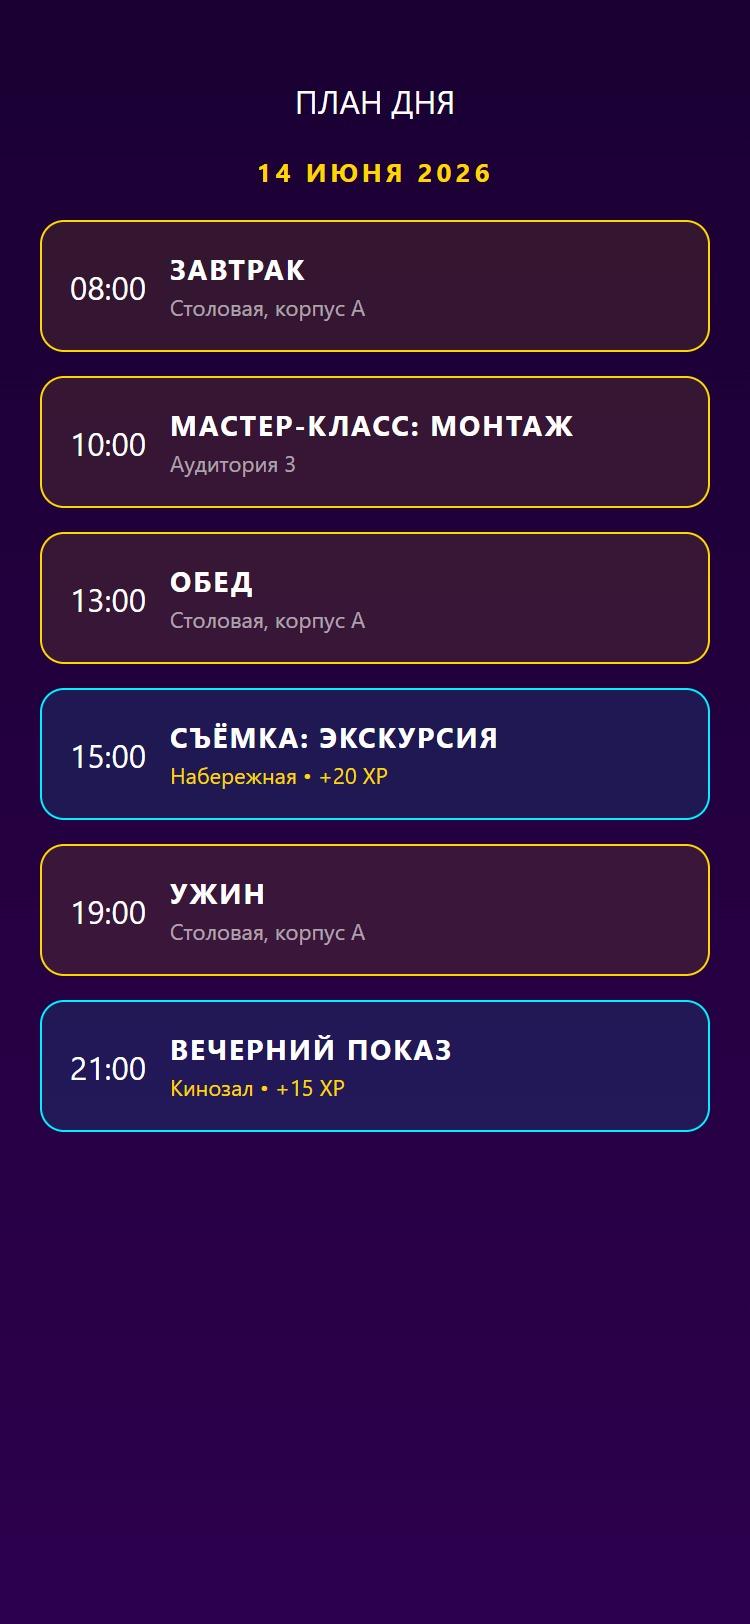
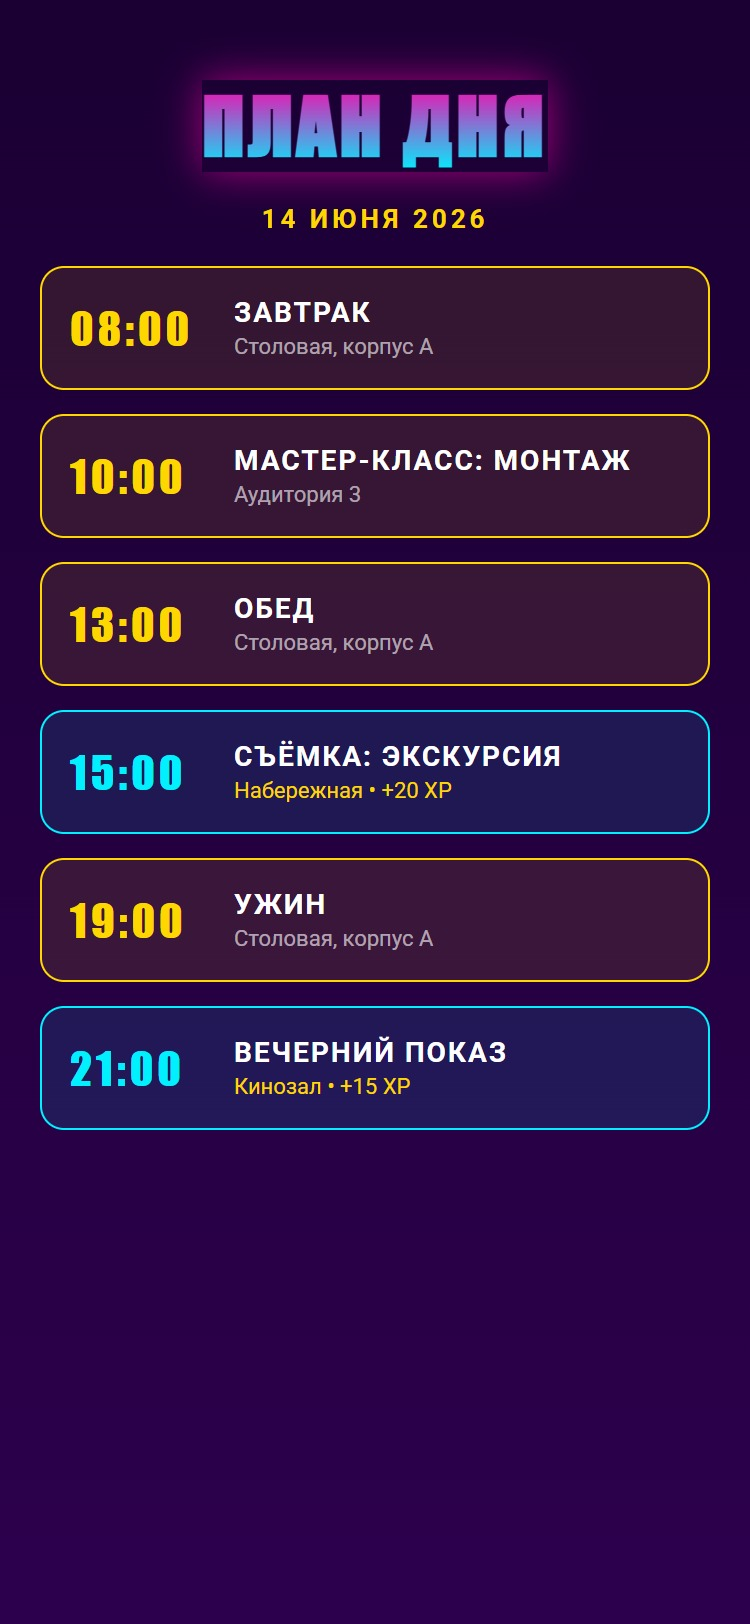
fix: exporter — escape font-family quotes, add Oswald fallback for Pricedown
Bug: 'font-family:"Roboto"' in style attribute broke HTML parsing due to
nested double quotes. Caused text elements to lose all styles and stay invisible
against light/dark backgrounds (looked like blank gray placeholders).

Fixes:
1. Use single quotes for font-family names: 'Roboto' instead of "Roboto"
2. Load Roboto + Oswald fonts via Google Fonts for consistent cross-machine rendering
3. Fallback stack for Pricedown: Impact / Oswald / Arial Black + condensed stretch + letter-spacing
4. await document.fonts.ready before screenshot to avoid FOUT

File sizes grew ~3x (60KB → 200KB) — means text is actually rendered now.

Changed region(s): [[0.0307, 0.0308, 0.9507, 0.7081]]

diff --git a/export-screens.js b/export-screens.js
@@ -145,7 +145,7 @@ function renderNode(node, isRoot = false, parentLayout = 'none') {
 
   if (type === 'text') {
     const ts = {};
-    if (node.fontFamily) ts['font-family'] = `"${node.fontFamily}", Roboto, sans-serif`;
+    if (node.fontFamily) ts['font-family'] = `'${node.fontFamily}', Roboto, sans-serif`;
     if (node.fontSize) ts['font-size'] = node.fontSize + 'px';
     if (node.fontWeight) ts['font-weight'] = node.fontWeight;
     if (node.fontStyle) ts['font-style'] = node.fontStyle;
@@ -212,11 +212,17 @@ function renderNode(node, isRoot = false, parentLayout = 'none') {
 /** Обернуть в целую HTML-страницу */
 function wrapHtml(rootNode, width, height) {
   const content = renderNode(rootNode, true, 'none');
+  // Fallback stacks: если Pricedown не установлен, берётся Impact/Oswald
   return `<!DOCTYPE html><html><head><meta charset="utf-8">
+<link rel="preconnect" href="https://fonts.googleapis.com">
+<link rel="preconnect" href="https://fonts.gstatic.com" crossorigin>
+<link href="https://fonts.googleapis.com/css2?family=Roboto:wght@300;400;500;600;700;900&family=Oswald:wght@500;700&display=swap" rel="stylesheet">
 <style>
   *{margin:0;padding:0;box-sizing:border-box}
-  html,body{width:${width}px;height:${height}px;overflow:hidden;background:#000;font-family:-apple-system,BlinkMacSystemFont,"Segoe UI",Roboto,sans-serif;color:#fff;}
+  html,body{width:${width}px;height:${height}px;overflow:hidden;background:#000;font-family:Roboto,-apple-system,BlinkMacSystemFont,sans-serif;color:#fff;}
   body > div{width:${width}px;height:${height}px;}
+  /* Fallback для Pricedown — Impact с небольшой растяжкой */
+  div[style*="Pricedown"]{font-family:Impact,Oswald,'Arial Black',sans-serif !important;font-stretch:condensed;letter-spacing:2px !important;}
 </style>
 </head><body>${content}</body></html>`;
 }
@@ -250,7 +256,9 @@ async function main() {
       deviceScaleFactor: SCALE
     });
     await pg.setContent(wrapHtml(root, W, H), { waitUntil: 'domcontentloaded', timeout: 15000 });
-    await new Promise(r => setTimeout(r, 200));
+    // Ждём загрузку шрифтов (Google Fonts / сеть)
+    await pg.evaluate(() => document.fonts.ready);
+    await new Promise(r => setTimeout(r, 400));
 
     // Безопасное имя файла
     const safeName = page.name
